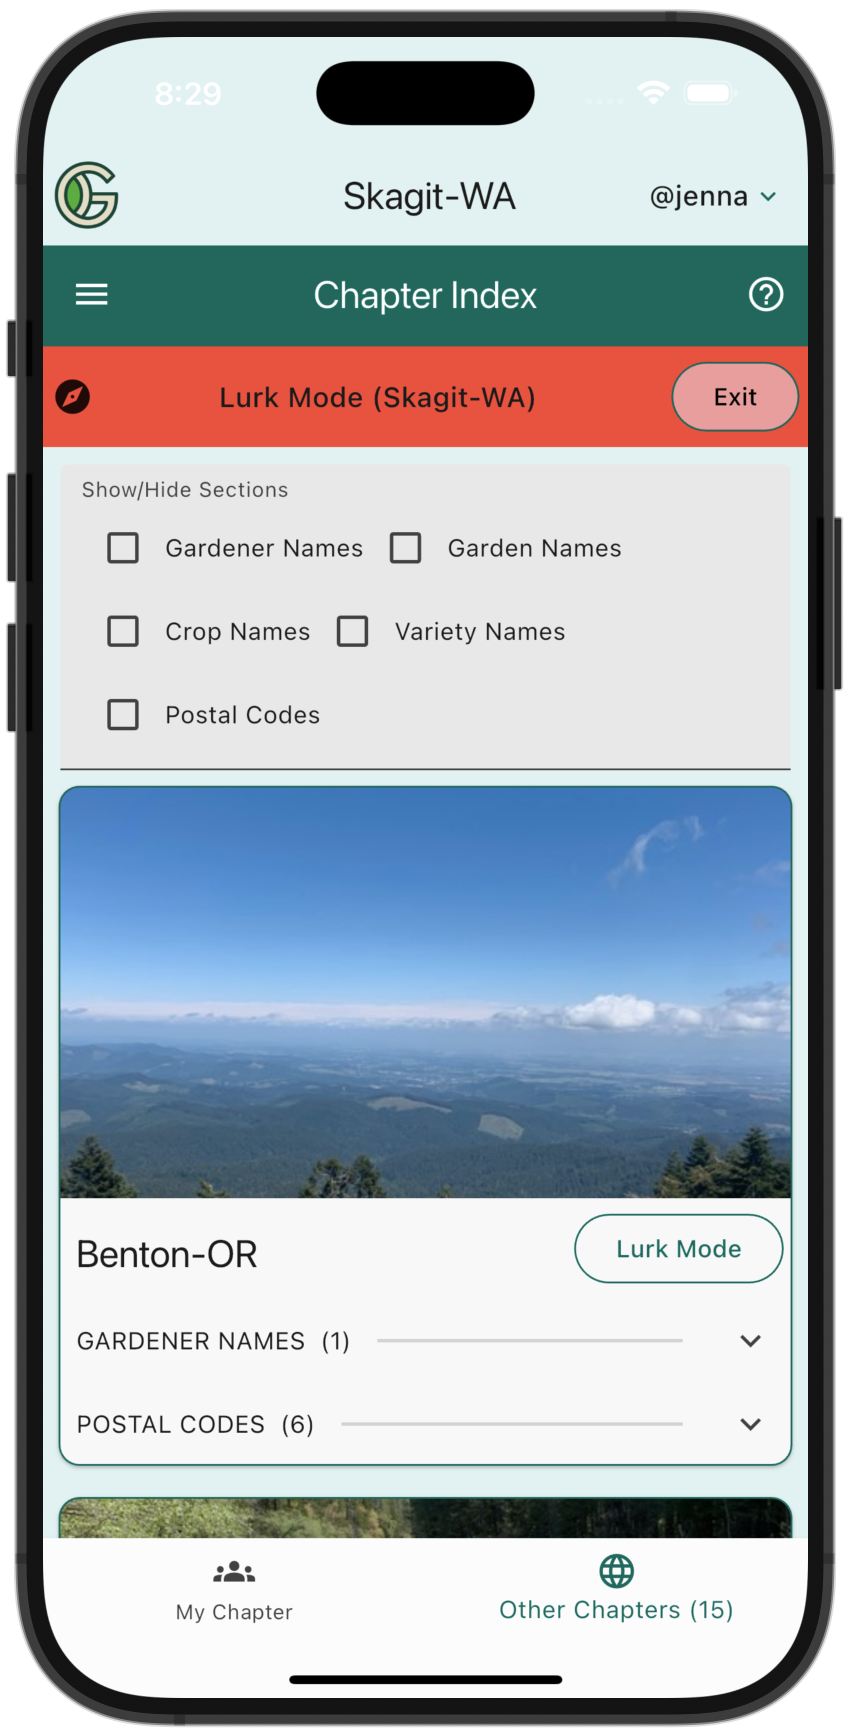
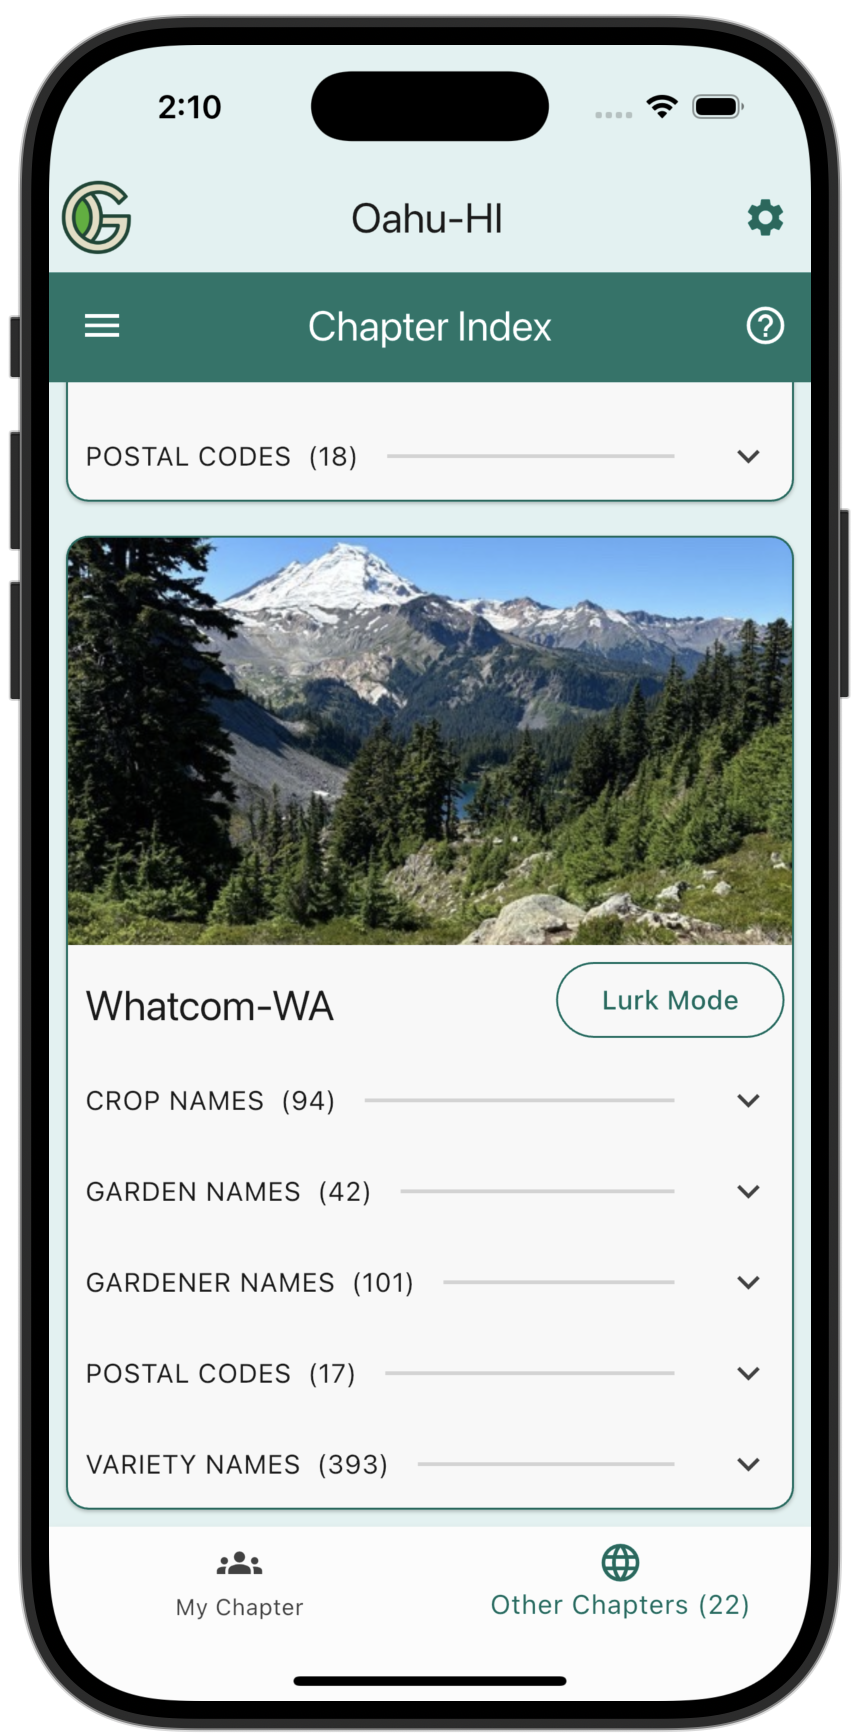
lurk mode documentation

diff --git a/docs/user-guide/chapters.md b/docs/user-guide/chapters.md
@@ -8,7 +8,7 @@ hide_table_of_contents: false
 :::tip How (and why) to look at Chapters
 :::
 
-The Chapter Index screen, which can be accessed from the Drawer, provides access to information about both your Chapter and all other Chapters in GGC.
+The Chapter Index screen, which can be accessed from the Drawer, provides access to information about your Chapter as well as all other Chapters in GGC.
 
 ## Chapter Index
 
@@ -33,17 +33,67 @@ Tapping the "Other Chapters" tab enables you to see information about all other 
 
 ## Lurk mode
 
-When viewing other Chapters, a feature called "Lurk Mode" is available. By tapping the "Lurk Mode" button associated with another Chapter, you can "transport" yourself into the other Chapter and view its Gardens and certain other kinds of information. For example, tapping the "Lurk Mode" button for the Skagit-WA Chapter take you to this screen:
+When viewing other Chapters, a feature called "Lurk Mode" is available. By tapping the "Lurk Mode" button associated with another Chapter, you can "transport" yourself into another Chapter to learn more about it.
+
+For example, the following screenshot shows the "Lurk Mode" button for the Whatcom-WA Chapter:
 
 <img width="300" src="/img/user-guide/chapter-lurk-mode-1.png"/>
 
-Notice that the chapter has changed to Skagit-WA and there is a red banner indicating you are in Lurk Mode along with a button to exit.
+### Lurking in Gardens
 
-Lurk Mode is read-only: you can't create or update anything in the Chapter you are visiting. However, you can look around. For example, you can go to the Drawer, tap "Gardens" to go to the Garden Index screen for that Chapter, then select a Garden and look at its details: 
+If you tap the "Lurk Mode" button, the system will load the data associated with that Chapter and automatically place you in the "Gardens" screen (which is normally accessed through the Drawer). The system also puts a red banner near the top of the screen to indicate that you are now in Lurk Mode for a specific Chapter:
 
-<img width="300" src="/img/user-guide/chapter-lurk-mode-2.png"/>
+<img width="300" src="/img/user-guide/chapter-lurk-mode-gardens.png"/>
 
-Lurk Mode can be useful for seeing how Gardeners in other Chapters are organizing their Gardens.
+Click the "Exit" button in the Lurk Mode banner at any time to return to your own Chapter.
+
+Lurk Mode is read-only: you can't create or update anything in the Chapter you are visiting. However, you can look around. For example, you can tap the "Details" button associated with a garden to see its details:
+
+<img width="300" src="/img/user-guide/chapter-lurk-mode-garden-details.png"/>
+
+You can click on individual Plantings to see their details, just as you can for your Home Chapter.
+
+Lurking in a Garden for another Chapter might give you new ideas for what to plant, how crops are rotated across seasons, or how Gardens differ in a different geographic region. 
+
+### Lurking in Gardeners
+
+You can also go to the Drawer and select "Gardeners" to see all the Gardeners associated with the lurked Chapter:
+
+<img width="300" src="/img/user-guide/chapter-lurk-mode-gardeners.png"/>
+
+Lurking in the Gardener screen can give you a perspective on the kinds of expertise (i.e. badges) available in different geographic regions.
+
+### Lurking in Plantings
+
+If you go to the Drawer and select "Plantings", you can see all the Plantings associated with the lurked Chapter:
+
+<img width="300" src="/img/user-guide/chapter-lurk-mode-plantings.png"/>
+
+Lurking in Plantings can reveal if there are differences in timings across different chapters for the same crop or variety, as well as revealing the different crops and varieties that are grown in different regions. 
+
+### Lurking in Observations
+
+Finally, you can go to the Drawer and select "Home" to go to the Home Screen:
+
+<img width="300" src="/img/user-guide/chapter-lurk-mode-home-gardens.png"/>
+
+As you might expect, you never own any Gardens in a lurked Chapter. (Nor do you have any Tasks.) However, if you click the "Observations" icon in the bottom nav bar, you can see the Observations associated with the lurked Chapter:
+
+<img width="300" src="/img/user-guide/chapter-lurk-mode-home-observations.png"/>
+
+Lurking in Observations is a way to get a visual sense for what gardeners are doing in a different Chapter. It might also give you new ideas for what is worth documenting in your own garden.
+
+### Lurking in Share Posts
+
+Finally, you can also see what resources have been shared in the lurked Chapter by clicking on the "Share" icon:
+
+<img width="300" src="/img/user-guide/chapter-lurk-mode-home-share.png"/>
+
+Lurking in Share Posts can provide insight into the resources that are being shared in different places, and might give you new ideas for what to share in your own Chapter. 
+
+:::info Chat Rooms are not shown in Lurk Mode
+We have decided to not make Chat Rooms available outside their "home" Chapter, so clicking on the Chat icon does not display any Chat Rooms when in Lurk Mode.
+:::
 
 
 
